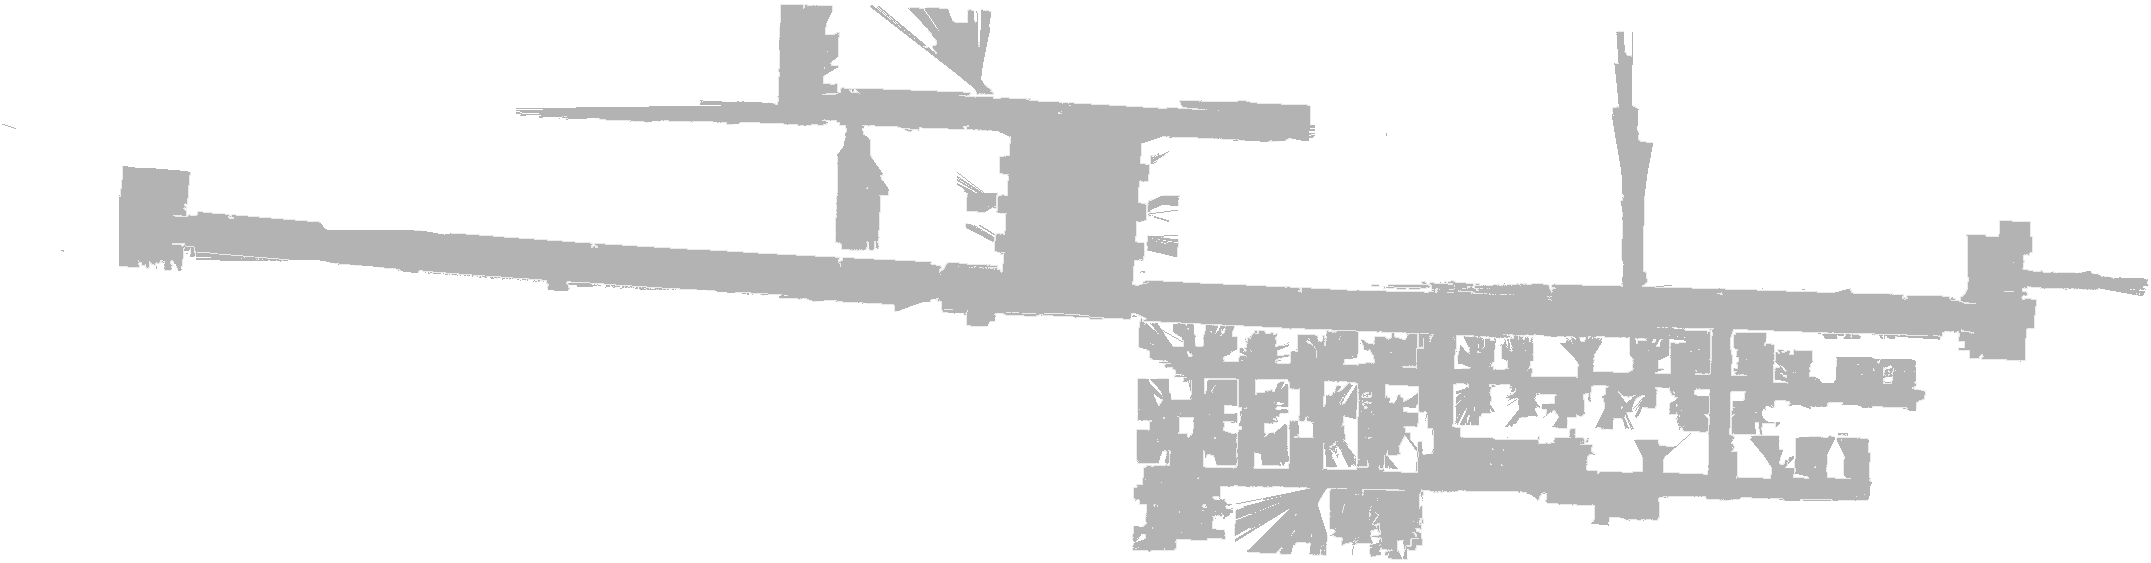
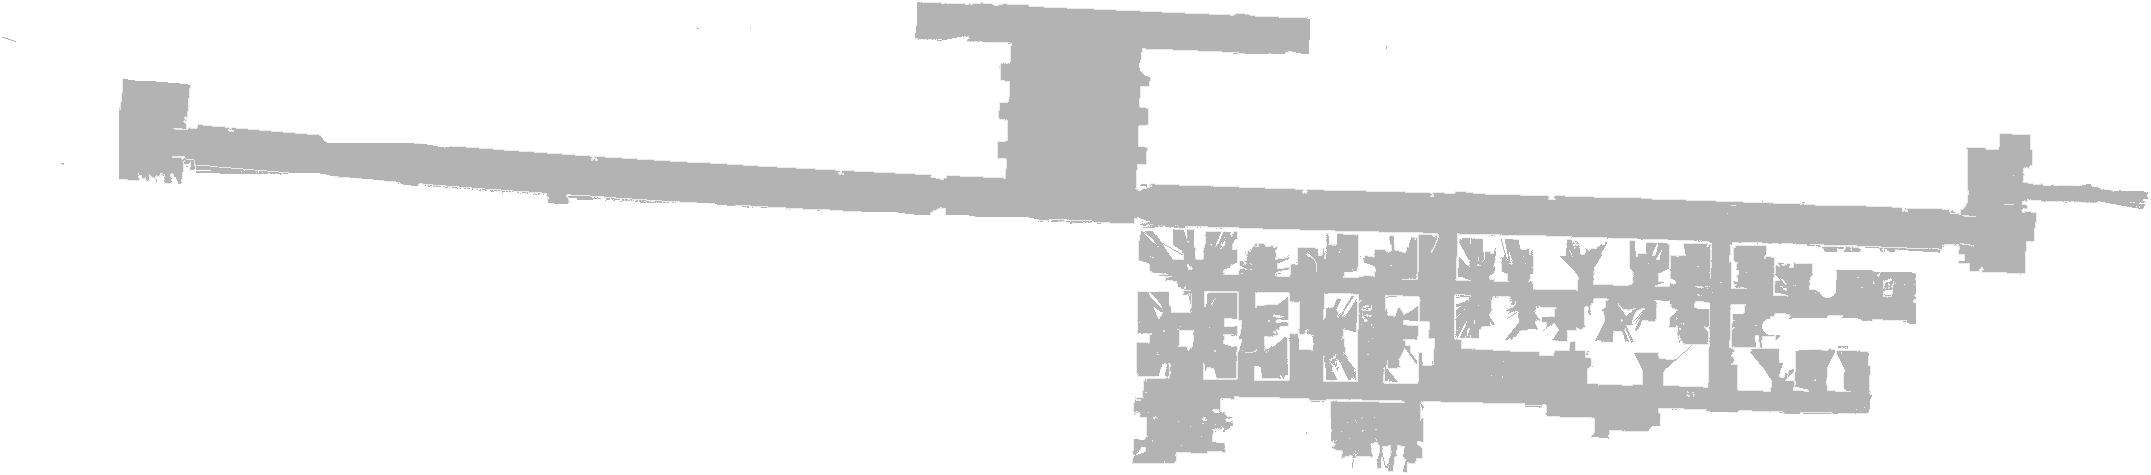
feat(field): 換上重新取的 SLAM 底圖,對位比舊的準
AMR 在線時 /map 就取得到,不必等下一次驅動。地圖本身改過了:

  新 2151×475  extent x −99.80~7.75   y −12.10~11.65
  舊 2151×563  extent x −101.25~6.30  y −10.10~18.05

轉檔沿用舊圖的規則(未知→透明、可走→(40,90)、障礙→(235,255),row_order
是 bottom_up 要上下翻),23.7 KB → 18.7 KB。

把既有軌跡疊上去比對過:舊圖裡軌跡的長邊會穿過右下角那排房間的牆,新圖裡
它落在走廊的空白帶上 —— 這次不只是重掃,是把對位修正了。

view 的 yMax 從 14 收到 11.65:舊地圖畫到 18.05,新的只到 11.65,沿用舊值
會在卡片頂端露出一條沒有底圖的空白。長寬比維持 30:18。

更新方法寫進註解了(打 /map 拿中繼資料與 raster,照上面的規則轉 LA PNG)。

Changed region(s): [[0.0311, 0.0, 1.0, 1.0]]

diff --git a/frontend/src/config/floorPlans.ts b/frontend/src/config/floorPlans.ts
@@ -34,11 +34,18 @@ export type FieldBackdrop = {
  */
 export const ITRI_B51_5F_SLAM: FieldBackdrop = {
   src: "/images/floorplan/slam-b51-5f.png",
-  extent: { xMin: -101.25, xMax: 6.3, yMin: -10.1, yMax: 18.05 },
-  // 整張圖是 101 × 28 m 的細長條,照整張畫在卡片裡只剩中間一條。固定框住測試
-  // 路線那一段:實測 5 趟的軌跡都落在 x −49.8~−30.5、y 0.7~9.4,四周留約 5 m,
-  // 長寬比 30:18 ≈ 1.67 跟卡片一致,填得滿。超出的部分由 SVG 裁掉。
-  view: { xMin: -55, xMax: -25, yMin: -4, yMax: 14 },
+  // AMR 的 SLAM 地圖,2026-10-01 重新從 /map/raster 取的(2151 × 475、解析度 0.05)。
+  // extent 直接照上游 /map 回的 origin + 寬高 × 解析度,不要手調 —— 軌跡與底圖
+  // 同一個座標系就是靠它對上的。要更新:打 /ctrl-conns/{cid}/controllers/{ref}/map
+  // 拿中繼資料與 raster,未知→透明、可走→(40,90)、障礙→(235,255) 轉成 LA PNG,
+  // 並記得 row_order 是 bottom_up(要上下翻)。
+  extent: { xMin: -99.8, xMax: 7.75, yMin: -12.1, yMax: 11.65 },
+  // 整張圖是 107 × 24 m 的細長條,照整張畫在卡片裡只剩中間一條。固定框住測試
+  // 路線那一段:實測軌跡落在 x −49.8~−30.6、y 0.7~9.2,長寬比 30:18 ≈ 1.67
+  // 跟卡片一致,填得滿。超出的部分由 SVG 裁掉。
+  // yMax 貼齊地圖上緣 11.65 —— 舊地圖畫到 18.05,新的只到 11.65,沿用舊的 14
+  // 會在卡片頂端露出一條沒有底圖的空白。
+  view: { xMin: -55, xMax: -25, yMin: -6.35, yMax: 11.65 },
 };
 
 export type FloorPlan = {
